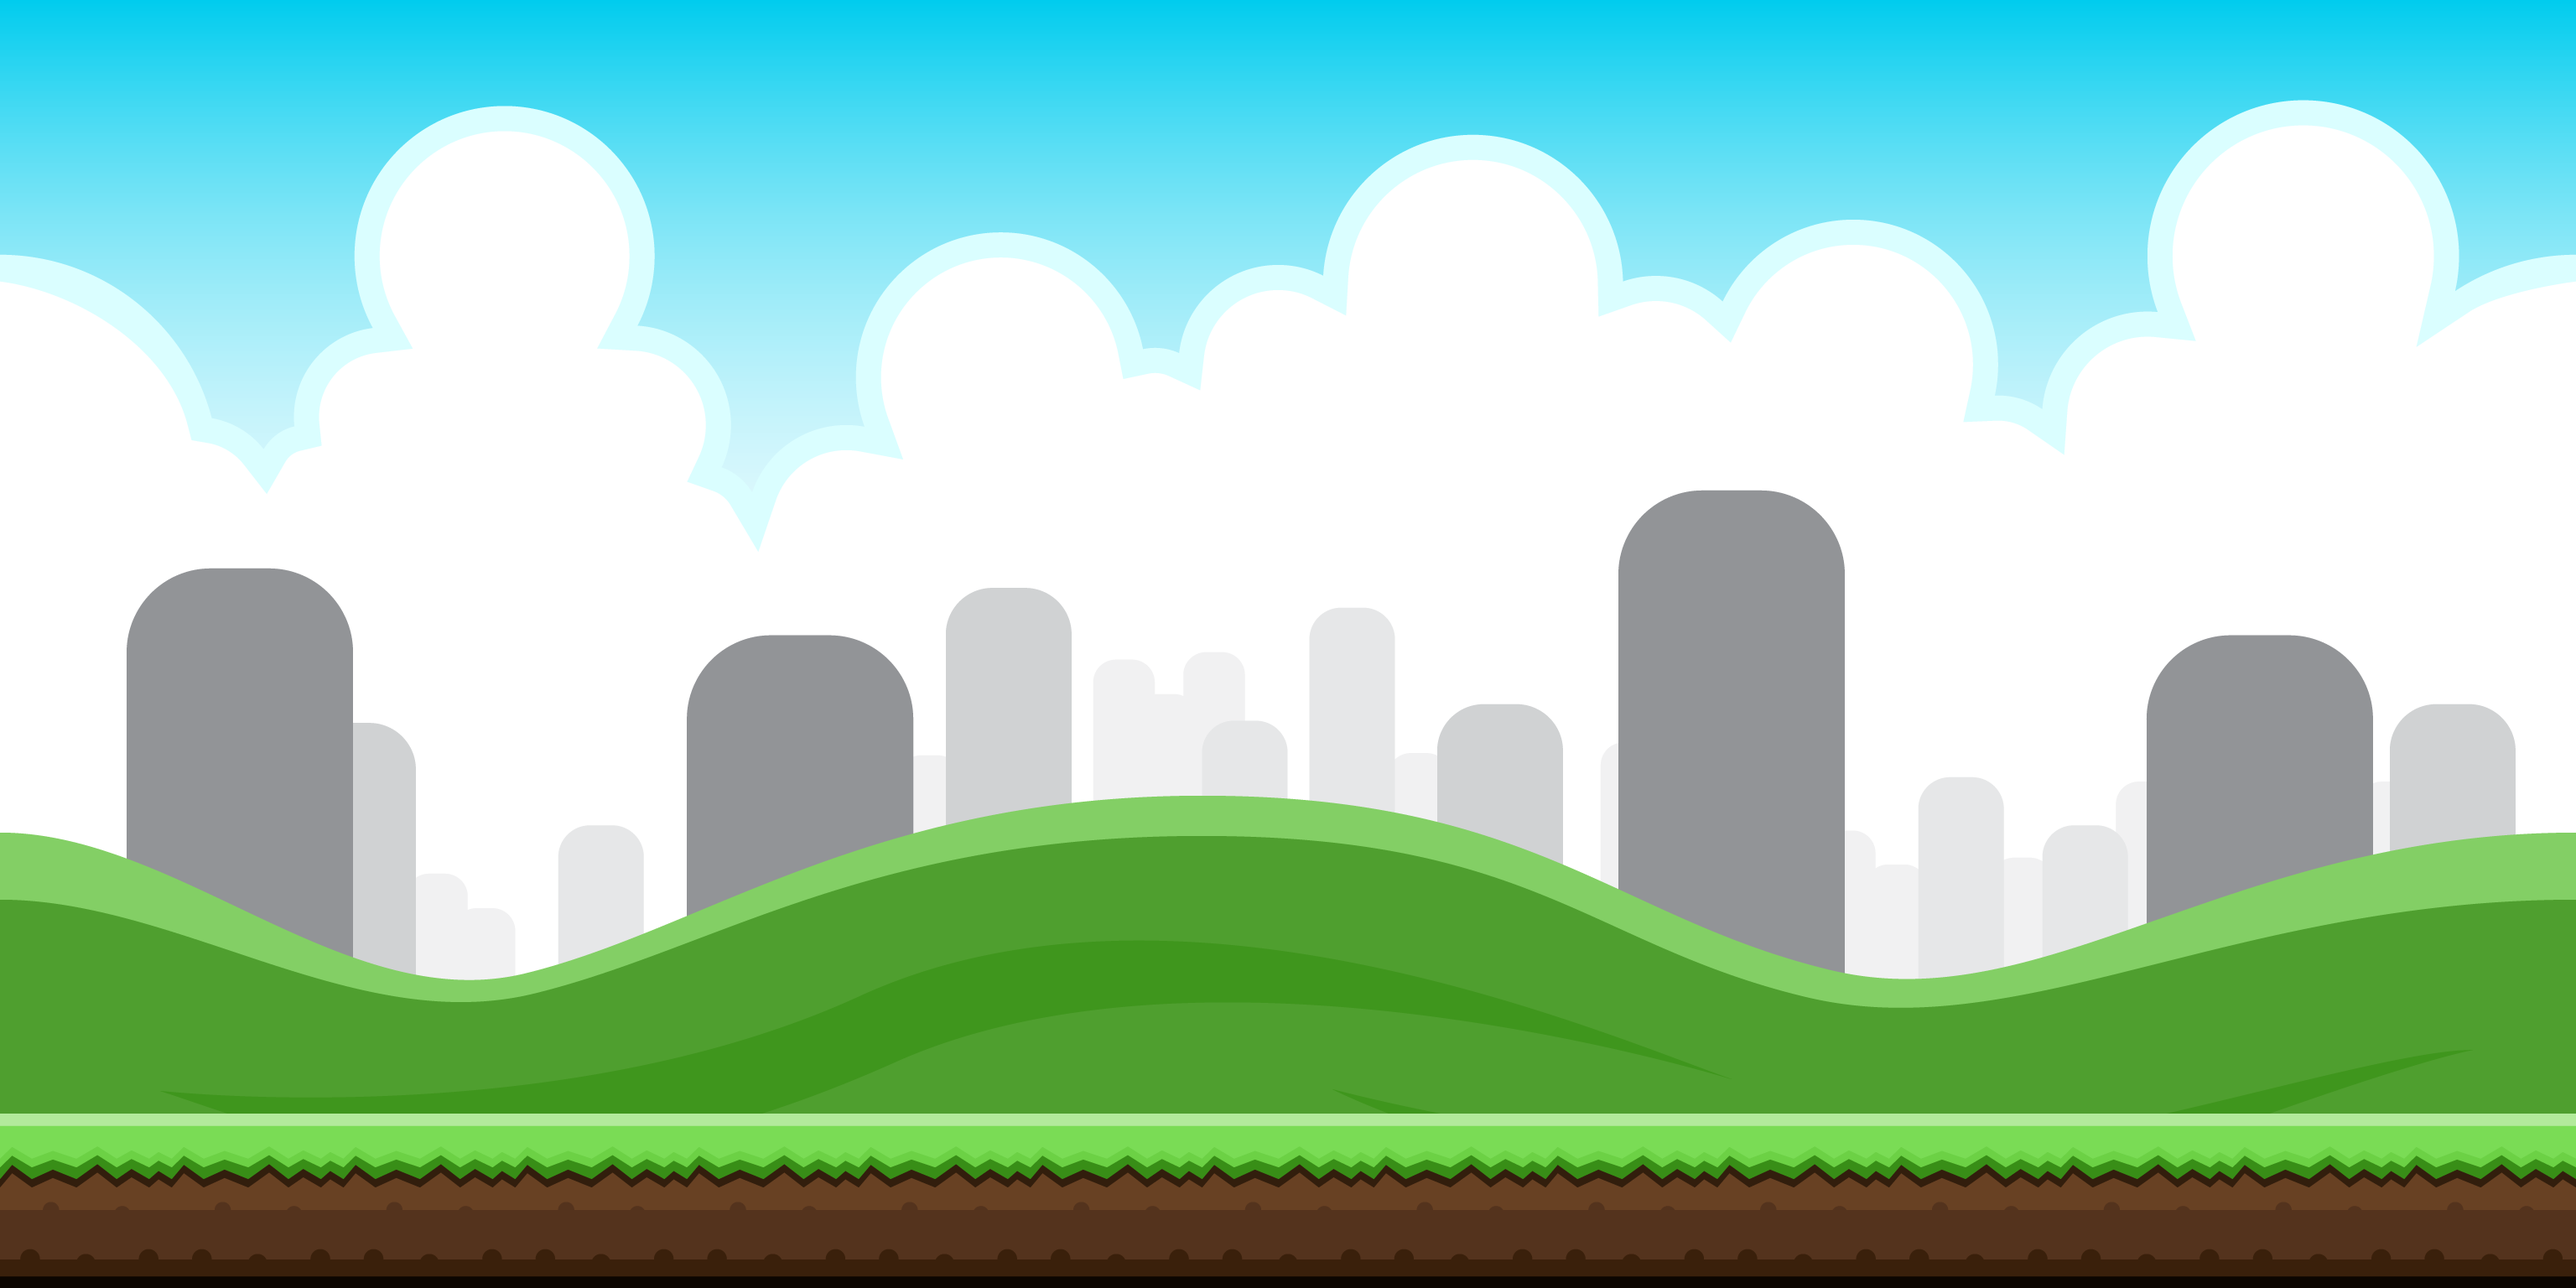
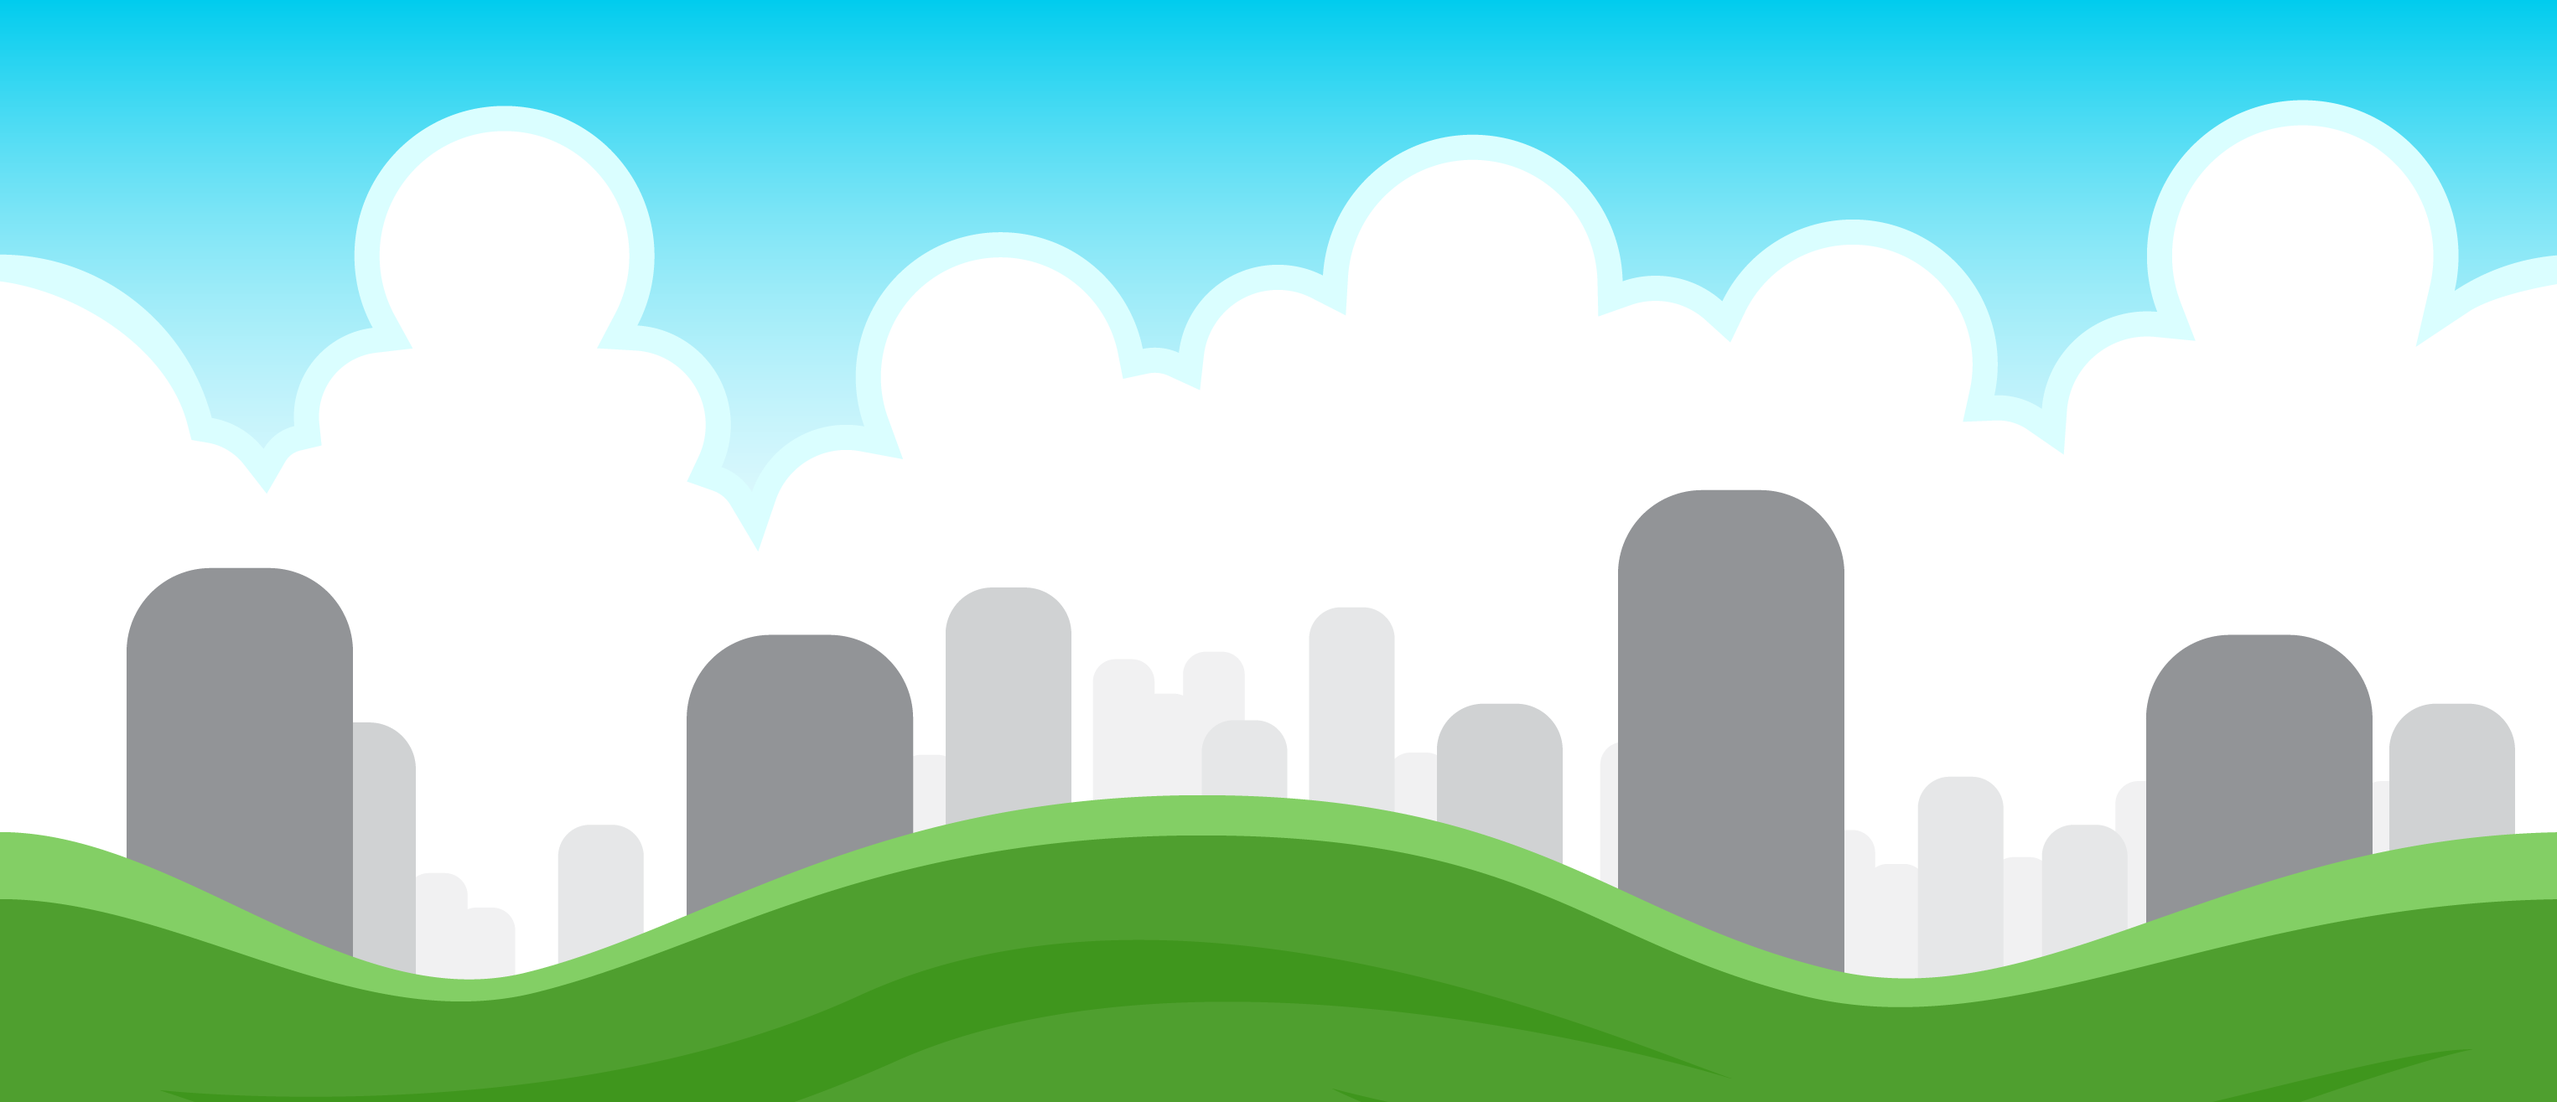
Background updated and Gravity created

diff --git a/core/src/com/example/survivorbird/SurvivorBird.java b/core/src/com/example/survivorbird/SurvivorBird.java
@@ -13,6 +13,9 @@ public class SurvivorBird extends ApplicationAdapter {
 	Texture bird;
 	float birdX = 0;
 	float birdY = 0;
+	int gameState = 0;		//Oyunun başlayıp başlamadığını kontrol edecek
+	float velocity;
+	float gravity = 0.1f;
 
 
 	@Override
@@ -31,10 +34,28 @@ public class SurvivorBird extends ApplicationAdapter {
 	@Override
 	public void render () {
 
+		if (Gdx.input.justTouched()) {
+			gameState = 1;
+		}
+
+		if (gameState == 1) {
+
+			if (birdY > 0 || velocity < 0) {
+				velocity = velocity + gravity;
+				birdY = birdY - velocity;
+			}
+
+
+		}else {
+			if (Gdx.input.justTouched()) {
+				gameState = 1;
+			}
+		}
+
 		batch.begin();
 
 		batch.draw(background, 0, 0, Gdx.graphics.getWidth(), Gdx.graphics.getHeight());
-		batch.draw(bird, birdX, birdY - 100, Gdx.graphics.getWidth()/20, Gdx.graphics.getHeight()/13);
+		batch.draw(bird, birdX, birdY , Gdx.graphics.getWidth()/20, Gdx.graphics.getHeight()/13);
 
 
 		batch.end();
